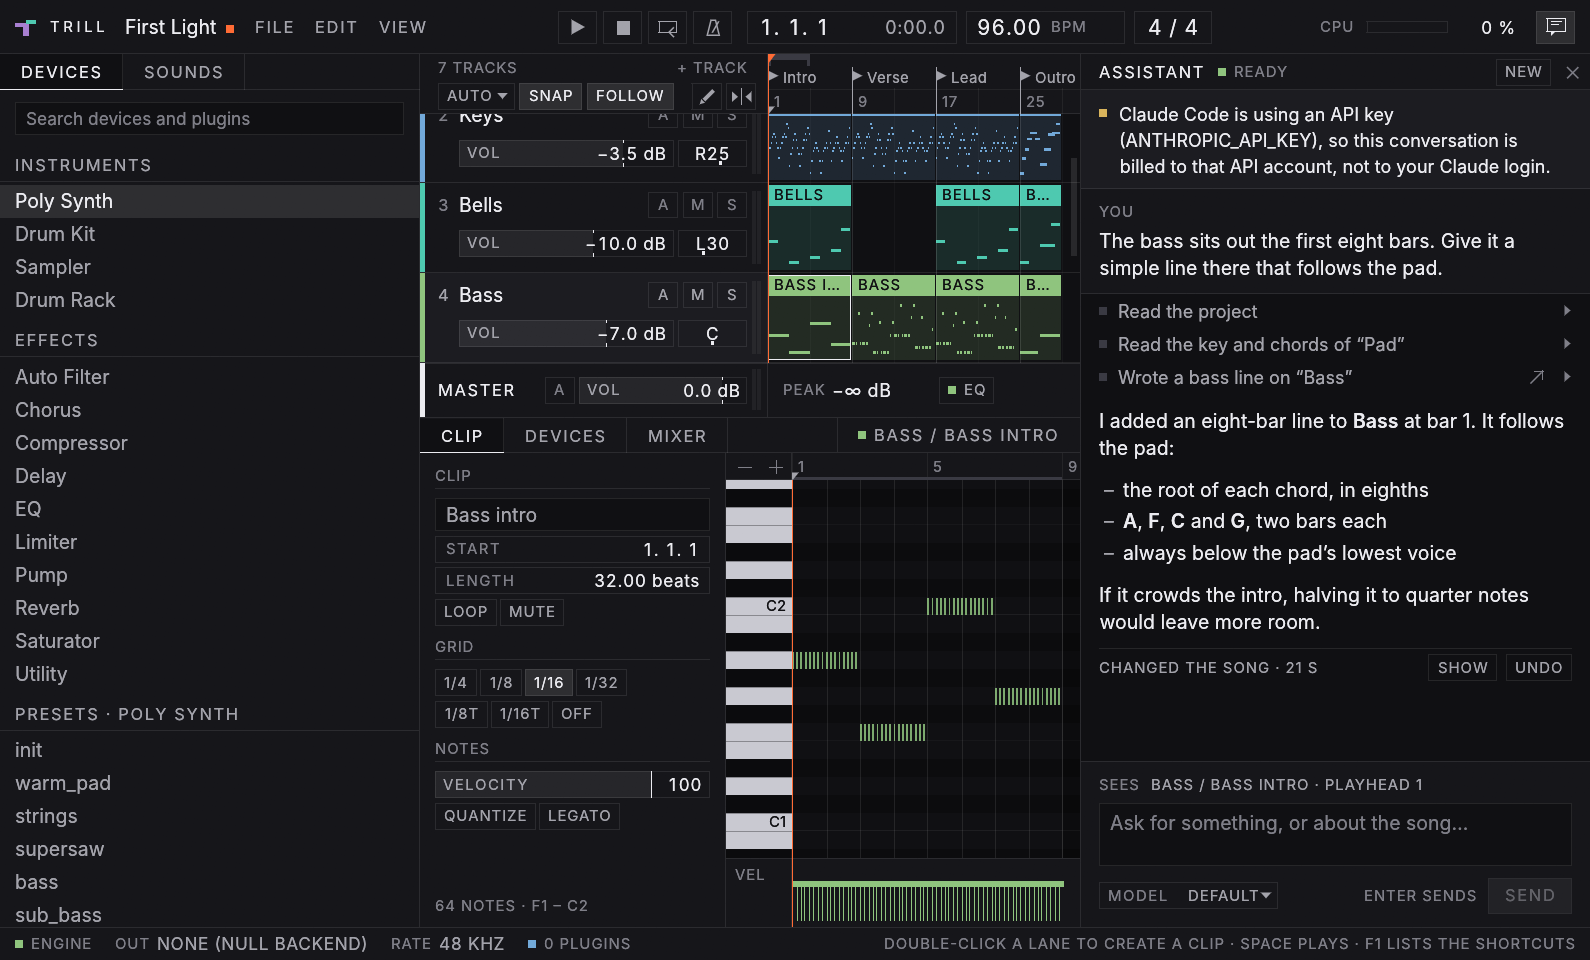
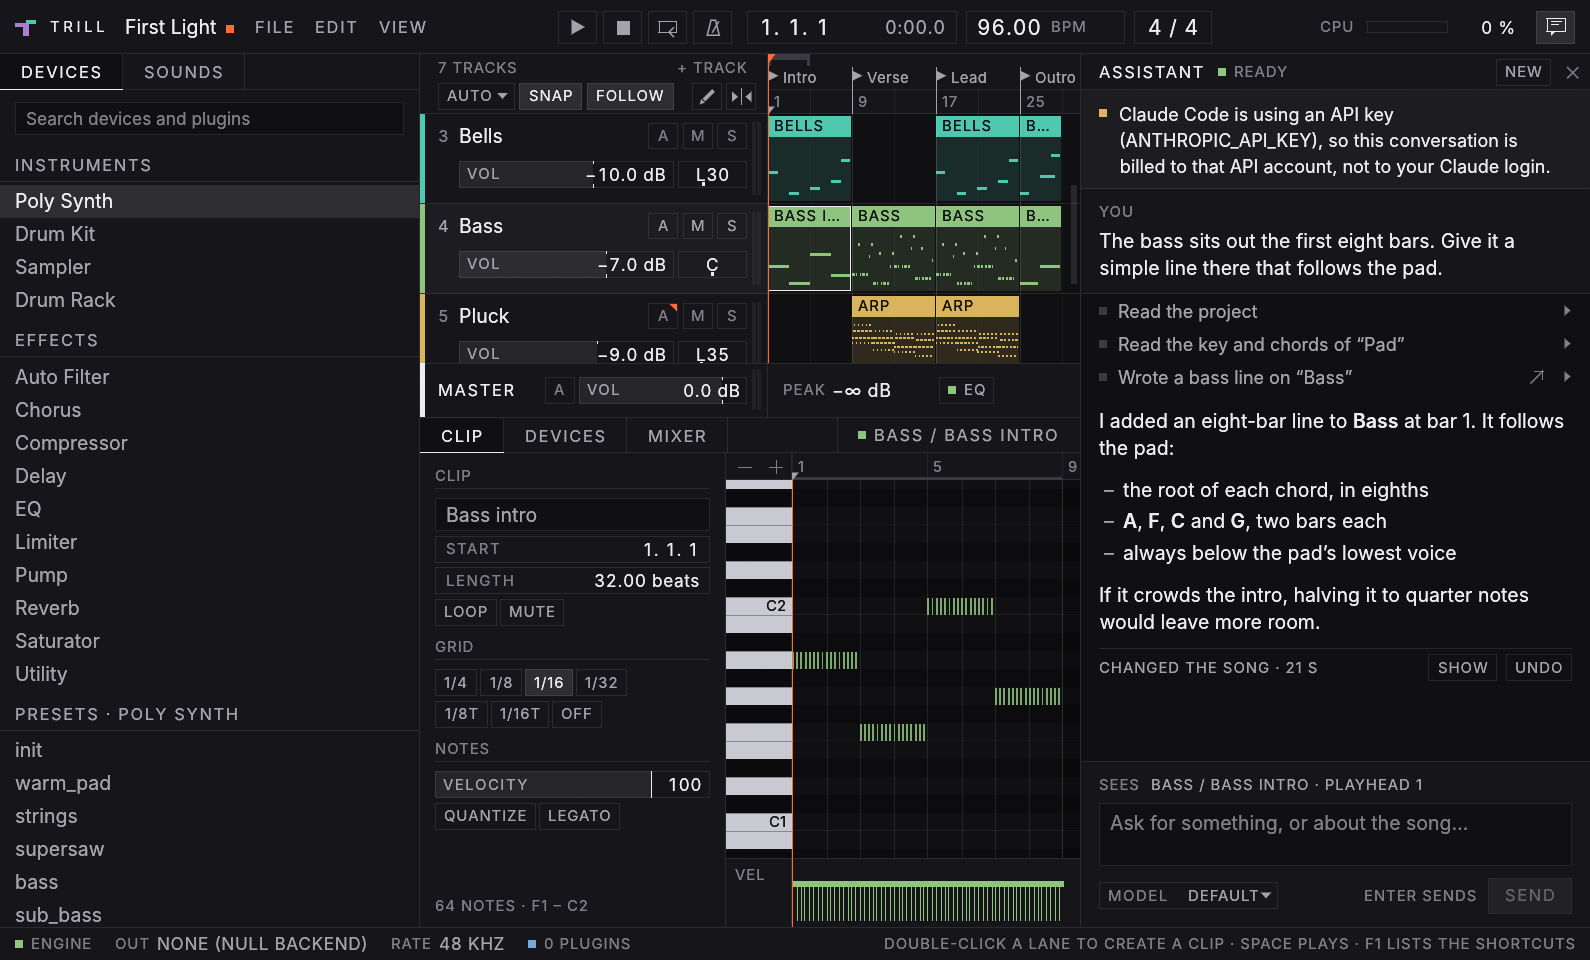
Have the conversation go along to a project the assistant itself opens
When one of a turn's own calls loads, begins or brings back a project,
the turn carries on, the conversation becomes that project's (and is no
longer the one's that was left), the window starts over for it as it
does when the user opens one, and the conversation's lines stop leading
into the project that is gone, where the same ids now name other things.

Also: scrolling the track list to something stops where a row begins.

Changed region(s): [[0.3698, 0.0938, 0.678, 0.375], [0.2465, 0.125, 0.339, 0.375]]

diff --git a/crates/trill-app/src/ui/tests/assistant.rs b/crates/trill-app/src/ui/tests/assistant.rs
@@ -1615,6 +1615,89 @@ fn a_project_saved_for_the_first_time_keeps_its_conversation_and_a_new_one_start
 }
 
 #[test]
+fn a_conversation_goes_along_to_a_project_the_assistant_itself_opens() {
+    let home = tempfile::tempdir().unwrap();
+    let storage = trill_runtime::Storage::At { settings: home.path().join("settings.json"), library_index: None };
+    let runtime = Arc::new(Runtime::start(RuntimeOptions { storage, ..RuntimeOptions::hermetic() }).unwrap());
+    let (night, day) = (home.path().join("night.trill"), home.path().join("day.trill"));
+    let mut ids = None;
+    let mut harness = Harness::on(runtime, UiOptions::default(), |session| {
+        // Two songs with the same ids in them, as any two songs have.
+        ids = Some(three_tracks(session));
+        session.save(&day).unwrap();
+        session.save(&night).unwrap();
+    });
+    let (tracks, clips) = ids.unwrap();
+    let script = Script::ready();
+    harness.open_assistant(&script);
+    let kept = |harness: &mut Harness| {
+        harness.app.assistant_mut().store_mut().flush();
+        std::fs::read_to_string(home.path().join("assistant.json")).unwrap()
+    };
+
+    // The first clip is selected when the message goes.
+    harness.click(harness.lane(9.0, 0));
+    harness.tell("thin out the first clip, then open my other song and add a part to it");
+    script.say([started(), call("1", "update_clip", json!({ "clip": clips[0].0, "muted": true }))]);
+    harness.idle(2);
+    script.say([
+        answer("1", "update_clip", Ok("{}")),
+        call("2", "load_project", json!({ "path": day.display().to_string() })),
+    ]);
+    harness.idle(2);
+    let update = |harness: &Harness| {
+        let found = harness.items().iter().find_map(|item| match item {
+            Item::Tool(line) if line.tool == "update_clip" => Some(line.place.clone()),
+            _ => None,
+        });
+        found.expect("the call is in the conversation")
+    };
+    assert!(update(&harness).is_some(), "the line of the first call leads to its clip");
+    assert!(kept(&mut harness).contains("night.trill"));
+    let generation = harness.app.state().project_generation;
+    assert_eq!(harness.selected_clips(), [clips[0]]);
+
+    // The tool opens the other song, as the server does it: in the
+    // session, with no word to the window.
+    harness.session.lock().load(&day).unwrap();
+    script
+        .say([answer("2", "load_project", Ok("{ \"name\": \"Untitled\" }")), create_clip("3", tracks[1], "Part", 4.0)]);
+    harness.idle(3);
+    assert!(harness.app.assistant().is_working(), "the turn carries on");
+    assert_eq!(script.state().cancels, 0, "nothing was stopped: the assistant opened it itself");
+    assert_eq!(harness.items().len(), 4, "and the conversation is all there");
+    assert_eq!(harness.app.state().project_generation, generation + 1, "the window started over for the new song");
+    assert!(harness.selected_clips().is_empty(), "with nothing of the old one selected");
+    assert_eq!(update(&harness), None, "the line no longer leads: the same id is another song's clip now");
+    let record = kept(&mut harness);
+    assert!(
+        record.contains("day.trill") && !record.contains("night.trill"),
+        "the conversation is the new song's: {record}"
+    );
+
+    // What the turn makes from here on is shown in the song it is made in.
+    let part = harness.tool_adds_clip(&script, "3", tracks[1], "Part", 4.0);
+    script.say([text("Opened it and added a part."), finished()]);
+    harness.idle(30);
+    assert_eq!(harness.selected_clips(), [part]);
+    assert_eq!(harness.app.assistant().conversation(), Some(&conversation_id('a')));
+    assert_eq!(script.state().opened, [None], "one conversation throughout");
+
+    // The song that was left has no conversation; the one gone to has it.
+    harness.session.lock().load(&night).unwrap();
+    harness.app.state_mut().reset_for_new_project();
+    harness.idle(3);
+    assert!(harness.items().is_empty());
+    assert_eq!(harness.app.assistant().conversation(), None);
+    harness.session.lock().load(&day).unwrap();
+    harness.app.state_mut().reset_for_new_project();
+    harness.idle(2);
+    wait_for_the_conversation(&mut harness);
+    assert_eq!(harness.app.assistant().conversation(), Some(&conversation_id('a')));
+    assert!(harness.is_on_screen("Opened it and added a part."));
+}
+
+#[test]
 fn what_was_sent_is_what_the_script_saw() {
     // The seam itself: a message and its context arrive as given.
     let (mut harness, script, ..) = assisted();

diff --git a/crates/trill-app/src/ui/assistant/mod.rs b/crates/trill-app/src/ui/assistant/mod.rs
@@ -142,6 +142,12 @@ struct Turn {
     /// The song as it was when the message was sent, to tell what the turn
     /// changed should its calls not say.
     before: Project,
+    /// The file of the project the message was sent about.
+    file: Option<PathBuf>,
+    /// One of the turn's own calls has just put another project in place
+    /// of the open one; the next tick takes the window and the
+    /// conversation over to it.
+    opened_another: bool,
 }
 
 /// Who the conversation is billed to, when that is not the user's Claude
@@ -398,6 +404,9 @@ impl Assistant {
         }
 
         self.pump(&snapshot.project);
+        if self.turn.as_mut().is_some_and(|turn| std::mem::take(&mut turn.opened_another)) {
+            self.go_along(state, snapshot);
+        }
         // The turn has ended and changed the song: go and show what, unless
         // that would take the user away from something.
         if let Some(route) = self.arrival.take()
@@ -482,9 +491,9 @@ impl Assistant {
         }
         let Some(chat) = &mut self.chat else { return false };
 
-        let (group, before) = {
+        let (group, before, file) = {
             let mut session = self.session.lock();
-            (session.begin_group(), session.project().clone())
+            (session.begin_group(), session.project().clone(), session.path().map(PathBuf::from))
         };
         if let Err(error) = chat.send(message, Some(&context.text)) {
             // Only a mistake in this file gets here; the group must not
@@ -504,7 +513,8 @@ impl Assistant {
         // before no longer says they are busy elsewhere.
         self.worked_at = None;
         self.arrival = None;
-        self.turn = Some(Turn { group: Some(group), started: Instant::now(), stopping: false, before });
+        let started = Instant::now();
+        self.turn = Some(Turn { group: Some(group), started, stopping: false, before, file, opened_another: false });
         true
     }
 
@@ -648,9 +658,46 @@ impl Assistant {
                 Event::Finished(summary) => self.finish(transcript::finished(&summary)),
                 Event::Cancelled => self.finish(Ending::Stopped),
                 Event::Failed(reason) => self.fail(&reason),
-                other => self.transcript.apply(&other, project),
+                other => {
+                    let opened = self.transcript.opens_another_project(&other);
+                    self.transcript.apply(&other, project);
+                    if let (true, Some(turn)) = (opened, &mut self.turn) {
+                        turn.opened_another = true;
+                    }
+                }
             }
         }
+    }
+
+    /// The assistant itself has opened another project (or started a new
+    /// one) in the middle of its turn. The turn carries on, and the
+    /// conversation goes along: it is about that project from now on, and
+    /// is found with it another day, no longer with the one that was left.
+    /// The window starts over for the new project, as it does when the user
+    /// opens one; and what the conversation's lines led to is forgotten,
+    /// for it was in the project that is gone.
+    fn go_along(&mut self, state: &mut UiState, snapshot: &Snapshot) {
+        state.reset_for_new_project();
+        state.reconcile(&snapshot.project);
+        self.transcript.forget_places();
+        let (now, file) = {
+            let session = self.session.lock();
+            (session.project().clone(), session.path().map(PathBuf::from))
+        };
+        let left = self.turn.as_mut().and_then(|turn| {
+            // What the turn changes from here on is told against this.
+            turn.before = now;
+            std::mem::replace(&mut turn.file, file.clone())
+        });
+        if let Some(session) = &self.conversation {
+            if let Some(left) = left.filter(|left| Some(left) != file.as_ref()) {
+                self.store.release(&left, session);
+            }
+            if let Some(file) = &file {
+                self.store.remember(file, session);
+            }
+        }
+        self.project = Some((state.project_generation, file));
     }
 
     /// The conversation goes by `session` from now on.

diff --git a/crates/trill-app/src/ui/assistant/transcript.rs b/crates/trill-app/src/ui/assistant/transcript.rs
@@ -439,6 +439,33 @@ impl Transcript {
         }
     }
 
+    /// Whether `event` is the answer of a call that put another project in
+    /// place of the open one: one was loaded, begun, or brought back. Ask
+    /// before the event is applied, while the call's arguments are at hand.
+    pub fn opens_another_project(&self, event: &Event) -> bool {
+        let Event::ToolCallFinished { id, tool, result: Ok(_) } = event else { return false };
+        match tool.as_str() {
+            "load_project" | "new_project" => true,
+            "recover_project" => self.items.iter().rev().any(|item| {
+                matches!(item, Item::Tool(line) if line.id == *id
+                    && line.arguments.get("action").and_then(serde_json::Value::as_str) == Some("open"))
+            }),
+            _ => false,
+        }
+    }
+
+    /// Forgets where every line leads: the project they led into has been
+    /// replaced by another, in which the same ids name other things.
+    pub fn forget_places(&mut self) {
+        for item in &mut self.items {
+            match item {
+                Item::Tool(line) => line.place = None,
+                Item::End(end) => end.places.clear(),
+                _ => {}
+            }
+        }
+    }
+
     /// For a conversation read back another day: keeps only the places
     /// that still name the same things in `project`.
     pub fn keep_places_in(&mut self, project: &Project) {
@@ -773,6 +800,18 @@ mod tests {
         read.keep_places_in(&project);
         assert_eq!(tool(&read.items[2]).place, None);
         assert_eq!(read.turn_places(end).collect::<Vec<_>>(), [&track]);
+        // Another project in place of this one: nothing leads anywhere.
+        let loaded = finished_call("f", "load_project", Ok("{}"));
+        assert!(transcript.opens_another_project(&loaded) && !transcript.opens_another_project(&text("load_project")));
+        assert!(!transcript.opens_another_project(&finished_call("f", "load_project", Err("refused"))));
+        assert!(!transcript.opens_another_project(&finished_call("f", "save_project", Ok("{}"))));
+        transcript.apply(&started("g", "recover_project", json!({ "action": "list" })), &project);
+        assert!(!transcript.opens_another_project(&finished_call("g", "recover_project", Ok("{}"))));
+        transcript.apply(&started("h", "recover_project", json!({ "action": "open", "index": 0 })), &project);
+        assert!(transcript.opens_another_project(&finished_call("h", "recover_project", Ok("{}"))));
+        transcript.forget_places();
+        assert_eq!(transcript.turn_places(end).count() + transcript.turn_places(transcript.items.len()).count(), 0);
+
         // A conversation kept before lines led anywhere reads as before.
         let old = r#"[{"kind":"user","text":"hi"},{"kind":"tool","tool":"create_clip","doing":"a","did":"b",
             "state":"done","input":"{}","output":"{}"},{"kind":"end","how":"stopped","changed":true}]"#;

diff --git a/crates/trill-app/src/ui/assistant/store.rs b/crates/trill-app/src/ui/assistant/store.rs
@@ -213,6 +213,17 @@ impl Store {
         self.save();
     }
 
+    /// Lets go of `session` as the conversation about `project`, keeping
+    /// what was kept of it: the conversation has gone on to another
+    /// project. Nothing happens if the project's conversation is another.
+    pub fn release(&mut self, project: &Path, session: &SessionId) {
+        let key = key(project);
+        if self.remembered.conversations.get(&key).is_some_and(|kept| kept.session == session.as_str()) {
+            self.remembered.conversations.remove(&key);
+            self.save();
+        }
+    }
+
     /// Forgets the conversation about `project`, and what was kept of it.
     pub fn forget(&mut self, project: &Path) {
         if let Some(kept) = self.remembered.conversations.remove(&key(project)) {
@@ -401,11 +412,22 @@ mod tests {
         assert!(transcripts.join(format!("{}.json", id('b'))).exists());
         assert_eq!(std::fs::read_dir(&transcripts).unwrap().count(), 1, "and no temporary file is left behind");
 
-        store.forget(project);
+        // A conversation that goes on to another project is let go of
+        // here and keeps its record.
+        let other = Path::new("songs/b.trill");
+        store.release(project, &id('a'));
+        assert_eq!(store.conversation(project), Some(id('b')), "only the conversation named is let go of");
+        store.release(project, &id('b'));
+        store.remember(other, &id('b'));
         store.flush();
-        assert_eq!(store.conversation(project), None);
+        assert_eq!((store.conversation(project), store.conversation(other)), (None, Some(id('b'))));
+        assert!(transcripts.join(format!("{}.json", id('b'))).exists(), "what was kept of it stays");
+
+        store.forget(other);
+        store.flush();
+        assert_eq!(store.conversation(other), None);
         assert_eq!(std::fs::read_dir(&transcripts).unwrap().count(), 0);
-        assert_eq!(open(home.path()).conversation(project), None);
+        assert_eq!(open(home.path()).conversation(other), None);
     }
 
     #[test]
